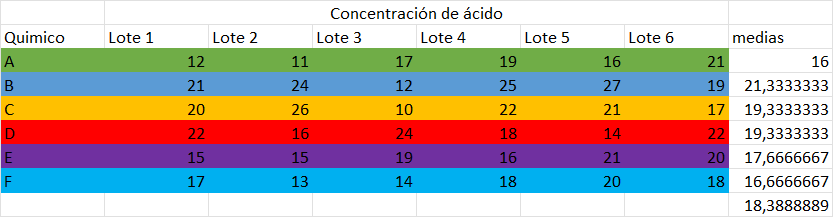
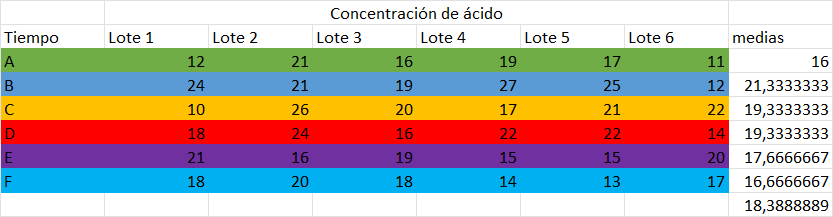
Punto #4
Agregando algnuos detalles al punto 4

diff --git a/Taller #2/Taller #2.md b/Taller #2/Taller #2.md
@@ -300,7 +300,7 @@ Datos preliminares:
 
 ### _Solución 2.a_
 
-El valor de p de 0,0005 sugiere que la probabilidad de que la diferencia observada se deba al azar es extremadamente baja, lo que indica que hay una diferencia significativa entre los métodos propuestos
+$\therefore 9.865384615$ > $3.354130829$ se rechaza la hipotesis $H_0$, lo que indica que hay una diferencia significativa entre los métodos propuestos
 
 <div align="center">
 
@@ -313,6 +313,8 @@ El valor de p de 0,0005 sugiere que la probabilidad de que la diferencia observa
 <!--
 Ref: https://es.slideshare.net/iorifoar/ejercicios-cuadrados-greco-latinos-ejercicio-3
 -->
+
+El primer paso será re ordenar los datos
 
 <div align="center">
 
@@ -328,9 +330,135 @@ $A = 6$
 
 $B = 6$
 
-$n_T = 36$
+$n = 36$
 
+Una vez se tiene los datos preliminares y la tabla ordenada podemos calcular la media de los datos
 
+<div align="center">
+
+![Media](./assets/promedio.png "Media de los datos")
+
+</div>
+
+Con la media de los datos podemos facilmente calcular los cuadrados de cada factor
+
+Para el factor A que corresponde con el tiempo de los quimicos podemos usar:
+
+$$SC_A = b * \sum_{i=1}^{a}{\bar{y_i}^2 - n * \bar{y}^2}$$
+
+Donde:
+
+- $b = 6$
+- $n = 36$
+- $\bar{y} = 18.38888889$
+
+$SC_A = 6 * (16^2 + 21.33333333^2 + 19.33333333^2 + 19.33333333^2 + 17.66666667^2 + 16.66666667^2) - 36 * 18.38888889^2$
+
+$SC_A = 117.8888889$
+
+Para el factor B similar al factor A podemos usar:
+
+$$SC_B = a * \sum_{i=1}^{b}{\bar{y_i}^2 - n *\bar{y}^2}$$
+
+Donde:
+
+- $b = 6$
+- $n = 36$
+- $\bar{y} = 18.38888889$
+
+$SC_B = 6 * (17.16666667^2 + 21.33333333^2 + 18^2 + 19^2 + 18.83333333^2 + 16^2) - 36 * 18.38888889^2$
+
+$SC_B = 99.55555556$
+
+Otro dato que se puede calcular es el total o SCT, para esto usamos:
+
+$$SCT = \sum_{i=1}^{a} \sum_{i=1}^{b}{\bar{y_{ij}}^2 - n *\bar{y}^2}$$
+
+Donde:
+
+- $\sum_{i=1}^{a} \sum_{i=1}^{b}{\bar{y_{ij}}^2} = 12808$
+- $n = 36$
+- $\bar{y} = 18.38888889$
+
+$SCT = 12808 - 36 * 18.38888889^2$
+
+$SCT = 634.5555556$
+
+Con estos valores se puede calcular el SCE:
+
+$$SCE = SCT - (SC_{A} + SC_{B})$$
+
+Donde:
+
+- $SC_A = 117.8888889$
+- $SC_B = 99.55555556$
+- $SCT = 634.5555556$
+
+$SCE = 634.5555556 - (117.8888889 + 99.55555556)$
+
+$SCE = 417.1111111$
+
+1. Plantenado las hipotesis:
+
+$H_0: \alpha_{i} = 0$
+
+$H_1: \alpha_{i} \neq 0$
+
+> La hipotesis se ha de centrar en el factor A (El tiempo), no tendría sentido centrarse en los lotes
+
+2. Planteamos el alpa:
+
+$\alpha = 0.05$
+
+3. Se calcula el valor del estadistico de prueba $F$
+
+Para este proposito se puede usar la tabla de ANOVA; ya que se han calculado los datos previamente se puede facilmente reemplazar en la tabla ANOVA
+
+<div align="center">
+
+| Fuente   | Suma de cuadrados | Grados de libertad       | Cuadrados medios                      | Estadistico F                     | F critico  | Valor P   |
+| -------- | ----------------- | ------------------------ | ------------------------------------- | --------------------------------- | ---------- | --------- |
+| Factor A | $SC_A$            | $GL_A = a - 1$           | $MC_A = \frac{SC_A}{a - 1}$           | $F_{objetivo} = \frac{MC_A}{MCE}$ | `INV.F.CD` | `DISTR.F` |
+| Factor B | $SC_B$            | $GL_B = b - 1$           | $MC_B = \frac{SC_B}{b - 1}$           |                                   |            |           |
+| Error    | $SCE$             | $GLE = (a - 1) * (b -1)$ | $MC_E = \frac{SCE}{(a - 1) * (b -1)}$ |                                   |            |           |
+| Total    | $SCT$             | $GLT = ab - 1$           |                                       |                                   |            |           |
+
+</div>
+
+> Notese que los valores a usar en las funciones de excel `INV.F.CD` y `DISTR.F` serían respectivamente
+
+```
+=INV.F.CD(alpha; GL_A; GLT)
+=DISTR.F(Estadistico_F; GL_A; GLT)
+```
+
+Reemplazando los datos tenemos
+
+<div align="center">
+
+| Fuente   | Suma de cuadrados | Grados de libertad | Cuadrados medios | Estadistico F | F critico   | Valor P     |
+| -------- | ----------------- | ------------------ | ---------------- | ------------- | ----------- | ----------- |
+| Factor A | 117.8888889       | 5                  | 23.57777778      | 1.413159297   | 2.485143221 | 0.243662729 |
+| Factor B | 99.55555556       | 5                  | 19.91111111      |               |             |             |
+| Error    | 417.1111111       | 25                 | 16.68444444      |               |             |             |
+| Total    | 634.5555556       | 35                 |                  |               |             |             |
+
+</div>
+
+Por tanto se puede afirmar que:
+
+- $F_{objetivo} = 1.413159297$
+- $F_{critico} = 2.485143221$
+
+4. Se plantea la afirmación
+
+$F_{objetivo} > F_{critico}$
+
+$1.413159297 > 2.485143221$
+
+#### <i><ins>Respuesta:</ins></i>
+
+$\therefore 1.413159297 > 2.485143221$ por lo que se rechaza la hipotesis $H_1$; es decir; estadisticamente hablando con un seguridad del 95% se puede afirmar que no existe una diferencia signicativa entre los tiempos de respose A, B, C, D, E y F
 
 <div align="center">
 
@@ -370,7 +498,7 @@ $F_{calculado} = 11.77876106$
 
 #### Tabla ANOVA
 
-| Fuente   | Suma de cuadrados | Grados de libertad | Cuadrados medios | Estadistico F | F critico  | Valor P     |
+| Fuente   | Suma de cuadrados | Grados de libertad | Cuadrados medios | Estadistico F | F critico   | Valor P     |
 | -------- | ----------------- | ------------------ | ---------------- | ------------- | ----------- | ----------- |
 | Factor A | 110.9166667       | 3                  | 36.97222222      | 11.77876106   | 0.983818621 | 0.000926591 |
 | Factor B | 135.1666667       | 2                  | 67.58333333      | 21.53097345   | 0.951621501 | 0.00015731  |
@@ -379,7 +507,7 @@ $F_{calculado} = 11.77876106$
 
 </div>
 
-Se plantea la afirmación
+4. Se plantea la afirmación
 
 $F_{calculado} > F_{critico}$
 
